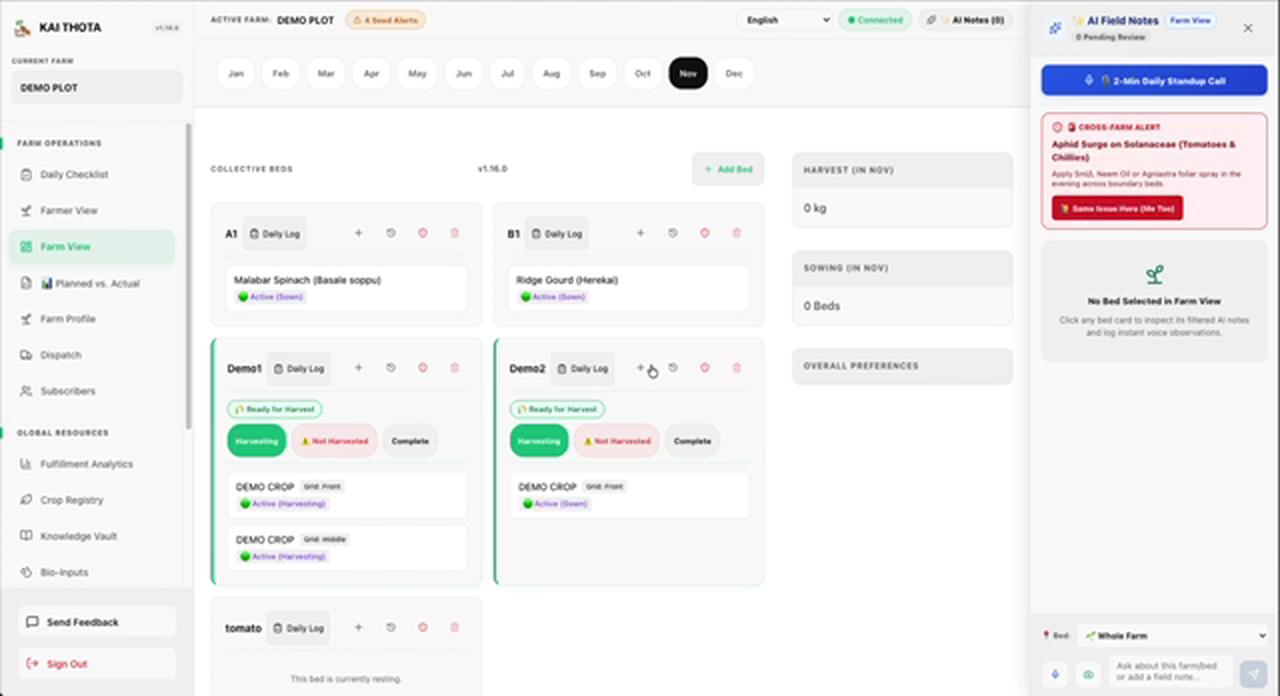
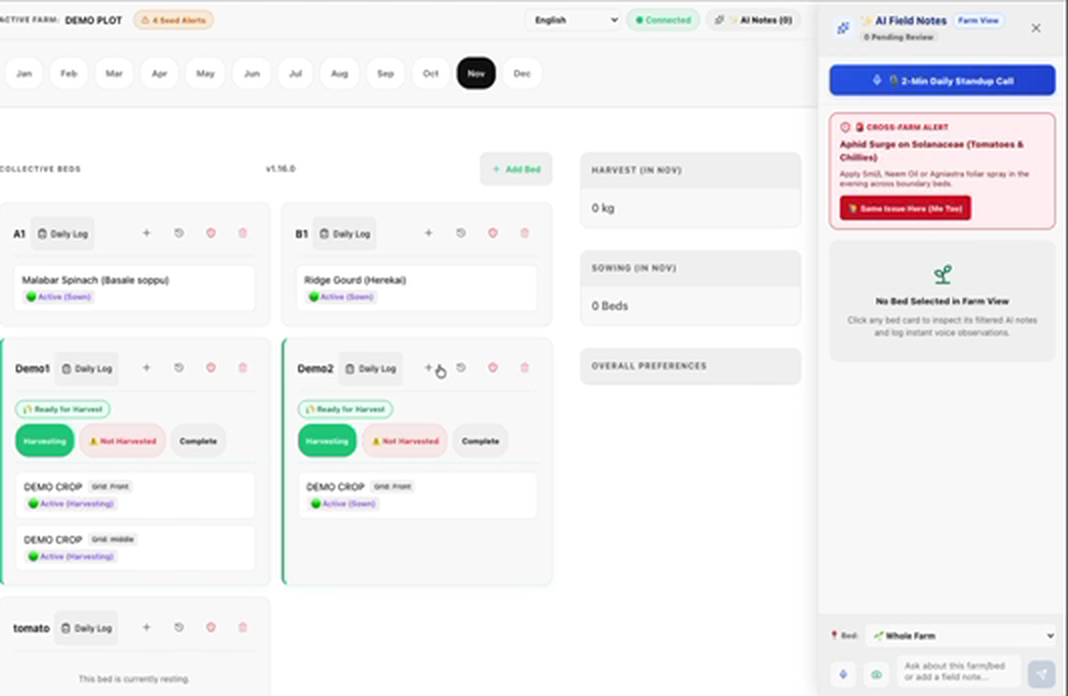
feat(bbl): crop out sidebar from web screenshot, zoom mobile into 3x3 Kannada grid, and de-conflict AI Field Notes

diff --git a/src/components/Products.jsx b/src/components/Products.jsx
@@ -64,7 +64,7 @@ export default function Products() {
 
         {/* Clean Studio Mobile + Web Layered Frame */}
         <div id="proof" className="mt-16 md:mt-20">
-          <div className="relative rounded-2xl bg-black/[0.02] dark:bg-white/[0.02] border border-hairline-light dark:border-hairline-dark p-4 sm:p-8 md:p-12 overflow-hidden">
+          <div className="relative rounded-2xl bg-black/[0.02] dark:bg-white/[0.02] border border-hairline-light dark:border-hairline-dark p-4 sm:p-8 md:p-12 pb-8 sm:pb-16 overflow-visible">
             
             {/* Ambient subtle glow */}
             <div className="absolute -top-24 -left-24 w-96 h-96 rounded-full bg-brand-gold/5 blur-3xl pointer-events-none" />
@@ -72,21 +72,8 @@ export default function Products() {
 
             <div className="relative max-w-4xl mx-auto">
               
-              {/* Web Dashboard Frame */}
-              <div className="rounded-xl overflow-hidden shadow-xl border border-hairline-light dark:border-white/10 bg-white dark:bg-[#0B1F22]">
-                {/* Minimal Browser Header */}
-                <div className="px-4 py-2.5 bg-canvas-light dark:bg-[#081719] border-b border-hairline-light dark:border-white/10 flex items-center justify-between">
-                  <div className="flex items-center space-x-2">
-                    <span className="w-2.5 h-2.5 rounded-full bg-black/20 dark:bg-white/20" />
-                    <span className="w-2.5 h-2.5 rounded-full bg-black/20 dark:bg-white/20" />
-                    <span className="w-2.5 h-2.5 rounded-full bg-black/20 dark:bg-white/20" />
-                  </div>
-                  <span className="text-[11px] font-mono text-ink-muted/80 dark:text-ink-darkMuted/80 tracking-tight">
-                    Kai Thota OS — Farm & Harvest Planning
-                  </span>
-                  <div className="w-12" />
-                </div>
-                
+              {/* Web Dashboard Frame (Clean border and shadow only) */}
+              <div className="rounded-xl sm:rounded-2xl overflow-hidden shadow-xl border border-hairline-light dark:border-white/10 bg-white dark:bg-[#0B1F22]">
                 <img 
                   src="/screenshots/kaithota-web.png" 
                   alt="Kai Thota OS Web Dashboard" 
@@ -94,17 +81,11 @@ export default function Products() {
                 />
               </div>
 
-              {/* Layered Mobile Device Frame (Farmer View) */}
-              <div className="mt-6 sm:mt-0 sm:absolute sm:-bottom-6 sm:right-2 md:right-8 w-full sm:w-56 md:w-64 rounded-2xl overflow-hidden shadow-2xl border-2 sm:border-4 border-white dark:border-[#0F2A2E] bg-white dark:bg-[#081719] transition-transform duration-300 hover:scale-105">
-                {/* Mobile Top Indicator */}
-                <div className="bg-[#1E4D2B] px-3.5 py-1.5 flex items-center justify-between text-[11px] font-medium text-white">
-                  <span>ಕೈ ತೋಟ • Field View</span>
-                  <span className="text-[10px] opacity-80">Offline</span>
-                </div>
-                
+              {/* Layered Mobile Device Frame (3x3 Kannada Action Grid) */}
+              <div className="mt-6 sm:mt-0 sm:absolute sm:-bottom-8 sm:left-[34%] md:left-[38%] w-full sm:w-64 md:w-72 rounded-2xl overflow-hidden shadow-2xl border-2 sm:border-4 border-white dark:border-[#0F2A2E] bg-white dark:bg-[#081719] transition-transform duration-300 hover:scale-105">
                 <img 
                   src="/screenshots/kaithota-mobile.png" 
-                  alt="Kai Thota Farmer Mobile Interface" 
+                  alt="Kai Thota Farmer Tactile Logging Grid" 
                   className="w-full h-auto object-cover block"
                 />
               </div>

diff --git a/dist/index.html b/dist/index.html
@@ -38,8 +38,8 @@
     <link rel="preconnect" href="https://fonts.googleapis.com">
     <link rel="preconnect" href="https://fonts.gstatic.com" crossorigin>
     <link href="https://fonts.googleapis.com/css2?family=Barlow+Condensed:ital,wght@0,200;0,300;0,400;0,500;0,600;0,700;1,400&family=Barlow:ital,wght@0,300;0,400;0,500;0,600;0,700;1,400&family=Inter:wght@300;400;500;600;700&family=Noto+Sans+Kannada:wght@400;500;600;700&display=swap" rel="stylesheet">
-    <script type="module" crossorigin src="/assets/index-CmJEHUSQ.js"></script>
-    <link rel="stylesheet" crossorigin href="/assets/index-CKIw_i7t.css">
+    <script type="module" crossorigin src="/assets/index-DOd-s7kM.js"></script>
+    <link rel="stylesheet" crossorigin href="/assets/index-B8UBXOvv.css">
   </head>
   <body class="bg-canvas-light text-ink-light dark:bg-canvas-dark dark:text-ink-dark font-sans antialiased selection:bg-brand-gold/30 selection:text-ink-light dark:selection:text-ink-dark transition-colors duration-200">
     <div id="root"></div>
